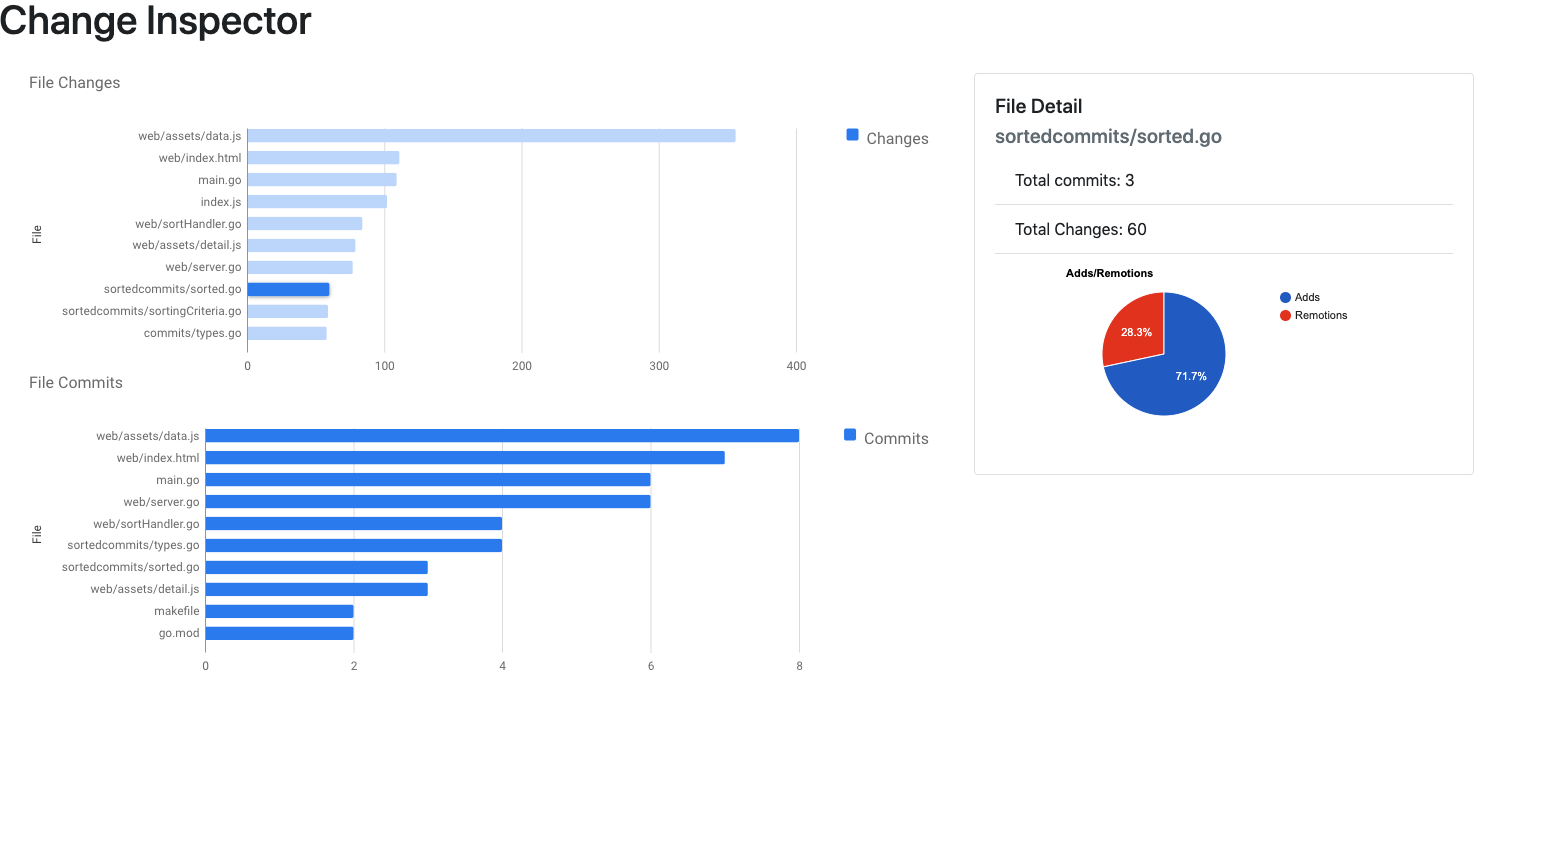
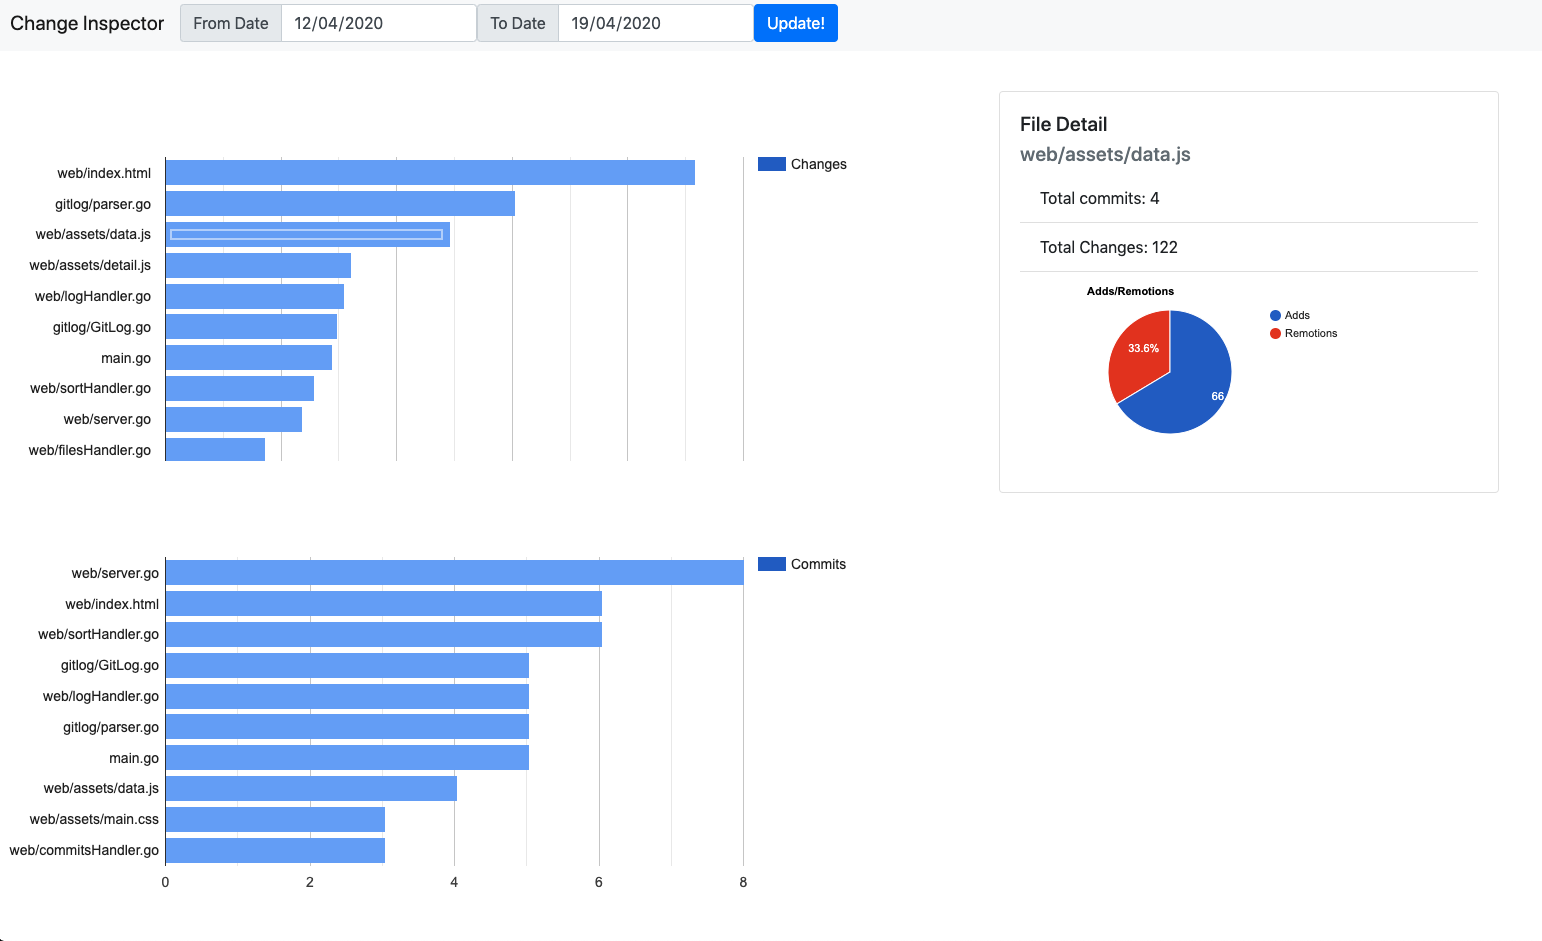
update README

diff --git a/web/server.go b/web/server.go
@@ -19,7 +19,7 @@ type pageModel struct {
 func indexHandler(logService *logservice.LogService) func(w http.ResponseWriter, r *http.Request) {
 	return func(w http.ResponseWriter, r *http.Request) {
 		model := pageModel{
-			Title:     "Change Inspector",
+			Title:     "Changes Inspector",
 			StartDate: logService.GitLog.After.Format("2006-01-02"),
 			EndDate:   logService.GitLog.Before.Format("2006-01-02"),
 		}
@@ -40,5 +40,5 @@ func StartServer(logService *logservice.LogService) {
 	staticFileServer := http.FileServer(http.Dir("web/assets/"))
 	router.PathPrefix("/assets/").Handler(http.StripPrefix("/assets/", staticFileServer))
 
-	http.ListenAndServe(":3001", router)
+	http.ListenAndServe(":3000", router)
 }

diff --git a/README.md b/README.md
@@ -1,9 +1,9 @@
-# Change Inspector
+# Changes Inspector
 ### A view on your files changes
 
 :construction: Project Under Construction :construction:
 
-![Scrennshot](https://github.com/giodiblasi/ChangeInspector/blob/master/screenshots/example.png)
+![Screenshot](https://github.com/giodiblasi/ChangeInspector/blob/master/screenshots/example.png)
 
 ## Run
 To launch web application type:
@@ -13,5 +13,7 @@ To launch web application type:
 and go to http://localhost:3000
 
 ## ToDo
-[] Optimize for large repos
+- [ x ] Add Date Range 
+- [  ] Start From Last Commit Date
+- [  ] Dockerization
 
